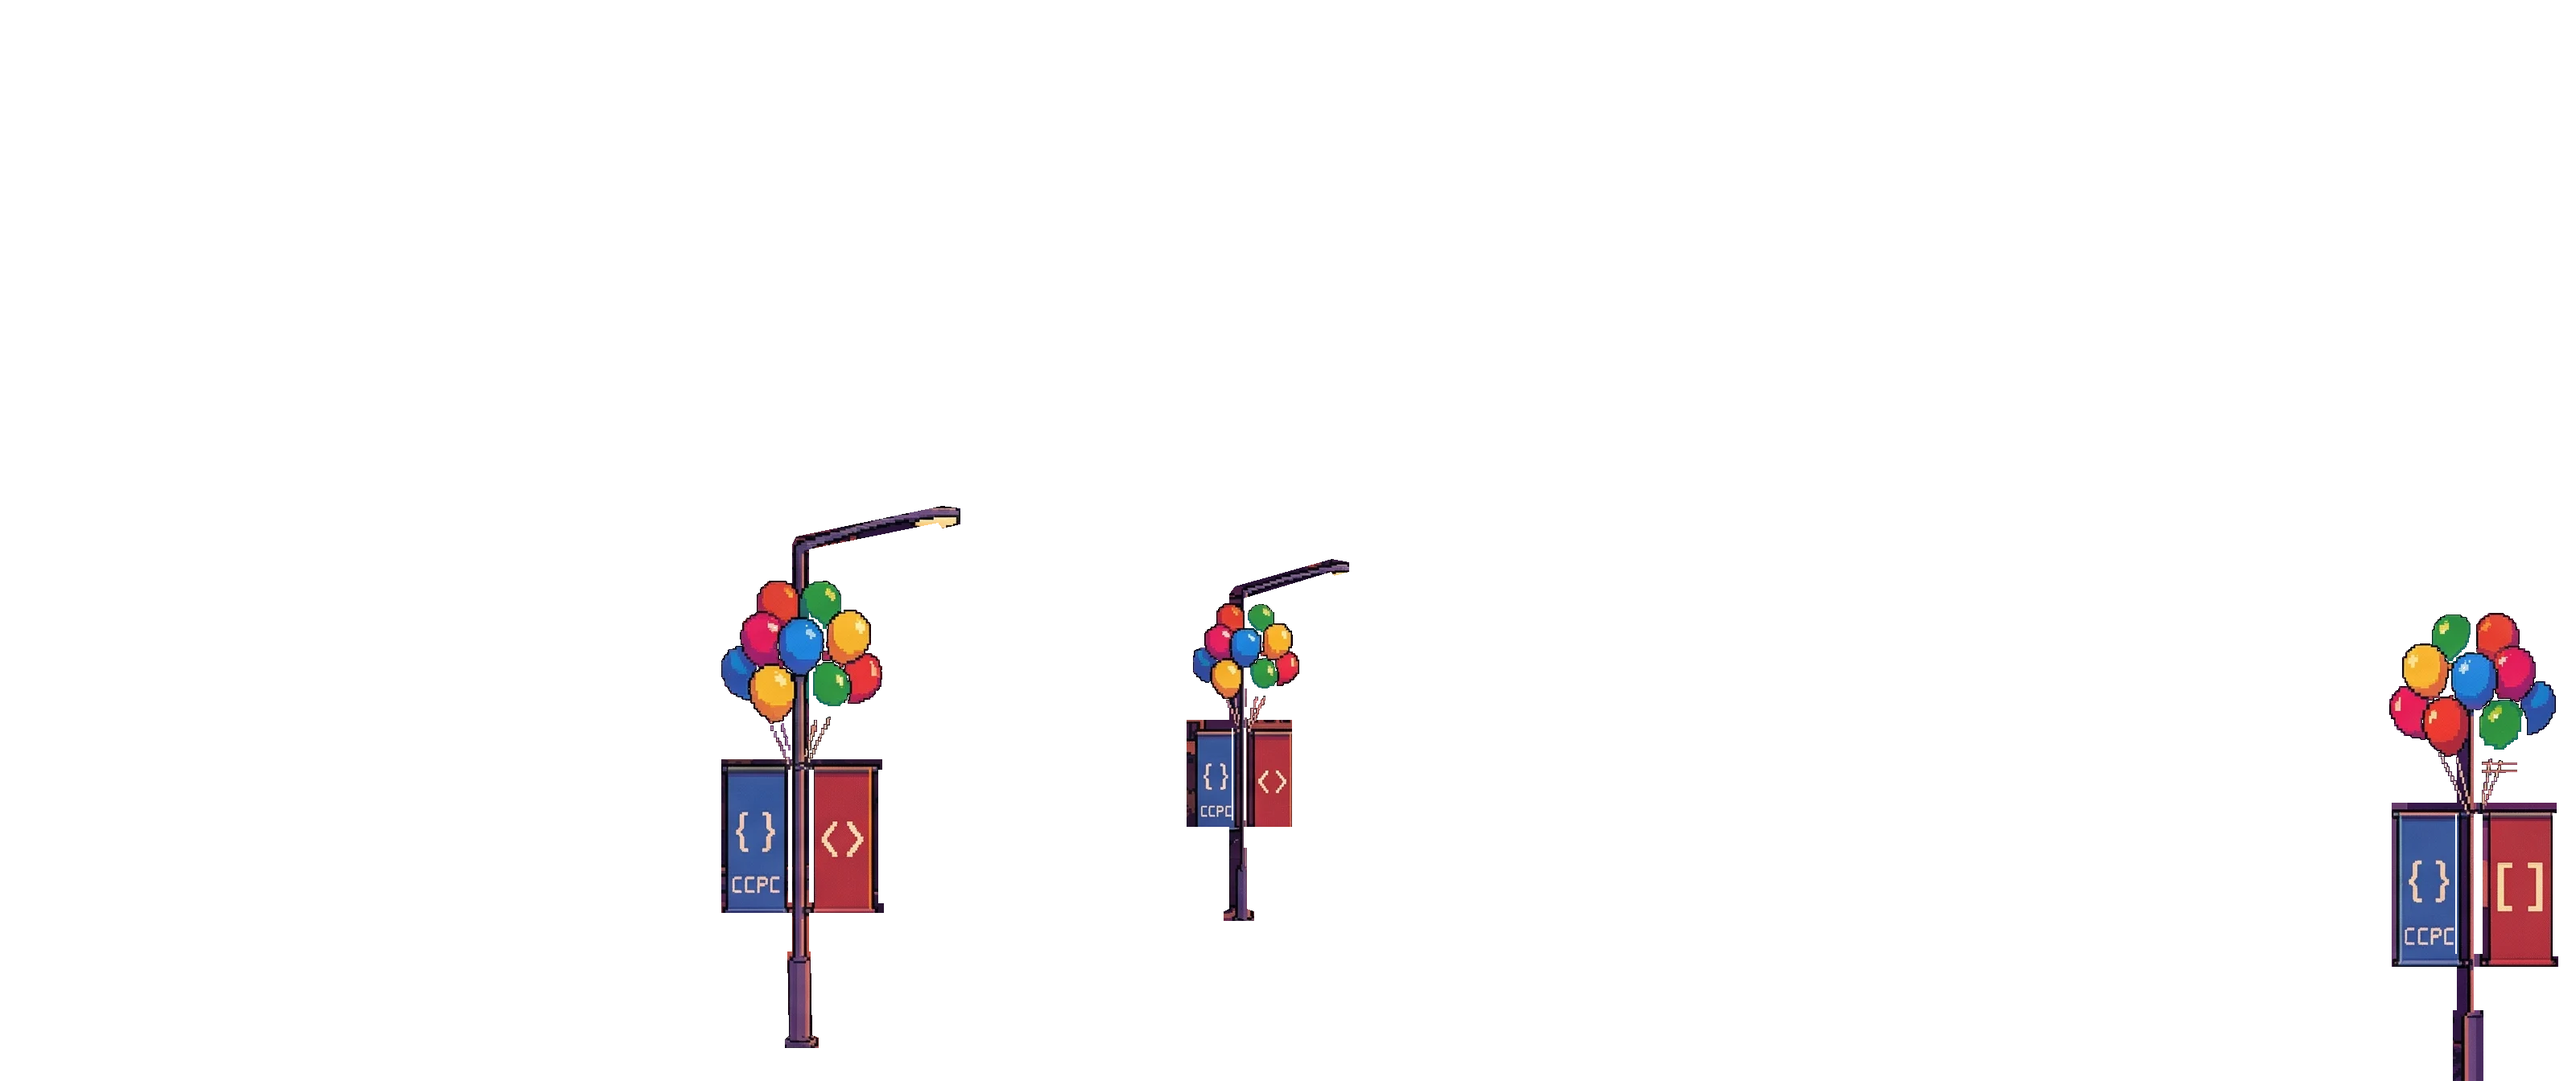
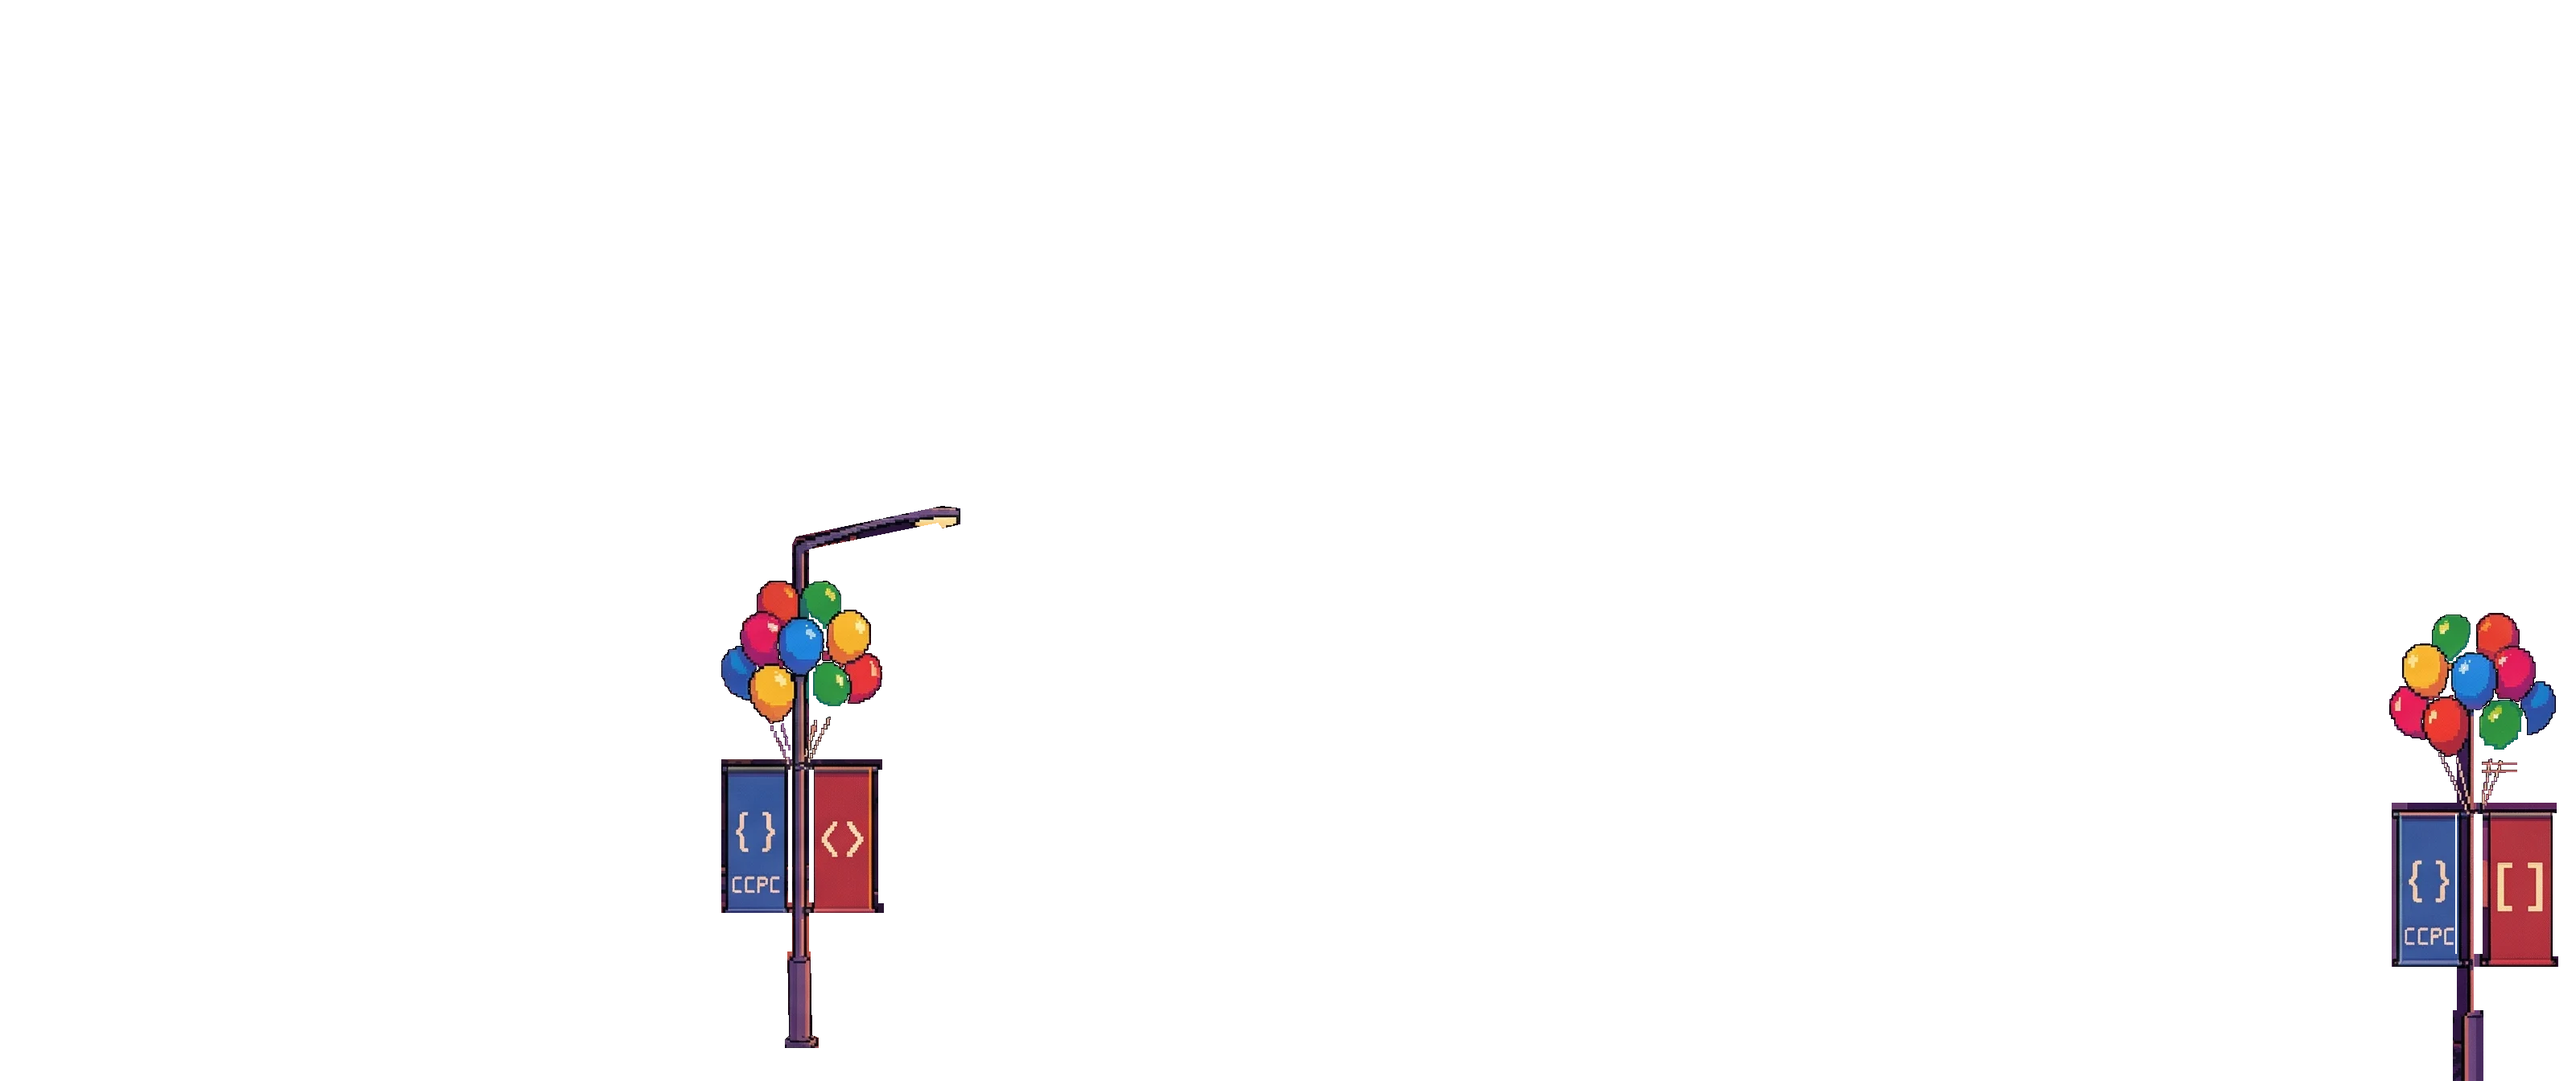
修复(场景): 保证方块置顶并移除重庆远处灯杆误遮挡

Changed region(s): [[0.4375, 0.5312, 0.5312, 0.8438], [0.5, 0.5, 0.5312, 0.5312]]

diff --git a/js/scenes/LevelScene.js b/js/scenes/LevelScene.js
@@ -156,6 +156,7 @@ export default class LevelScene extends Phaser.Scene {
             const by = CFG.H - CFG.GROUND_H - 100 - Phaser.Math.Between(0, 21);
 
             const block = this.blocks.create(bx, by, 'qblock');
+            block.setDepth(30); // 交互方块始终位于场景前景、氛围和 NPC 上方。
             block.setData('memories', blockData.memories);
             block.setData('collected', false);
 
@@ -448,7 +449,7 @@ export default class LevelScene extends Phaser.Scene {
             lifespan: 420,
             quantity: 10,
             emitting: false,
-        });
+        }).setDepth(block.depth - 1);
         burst.explode(10);
         this.time.delayedCall(500, () => burst.destroy());
 
